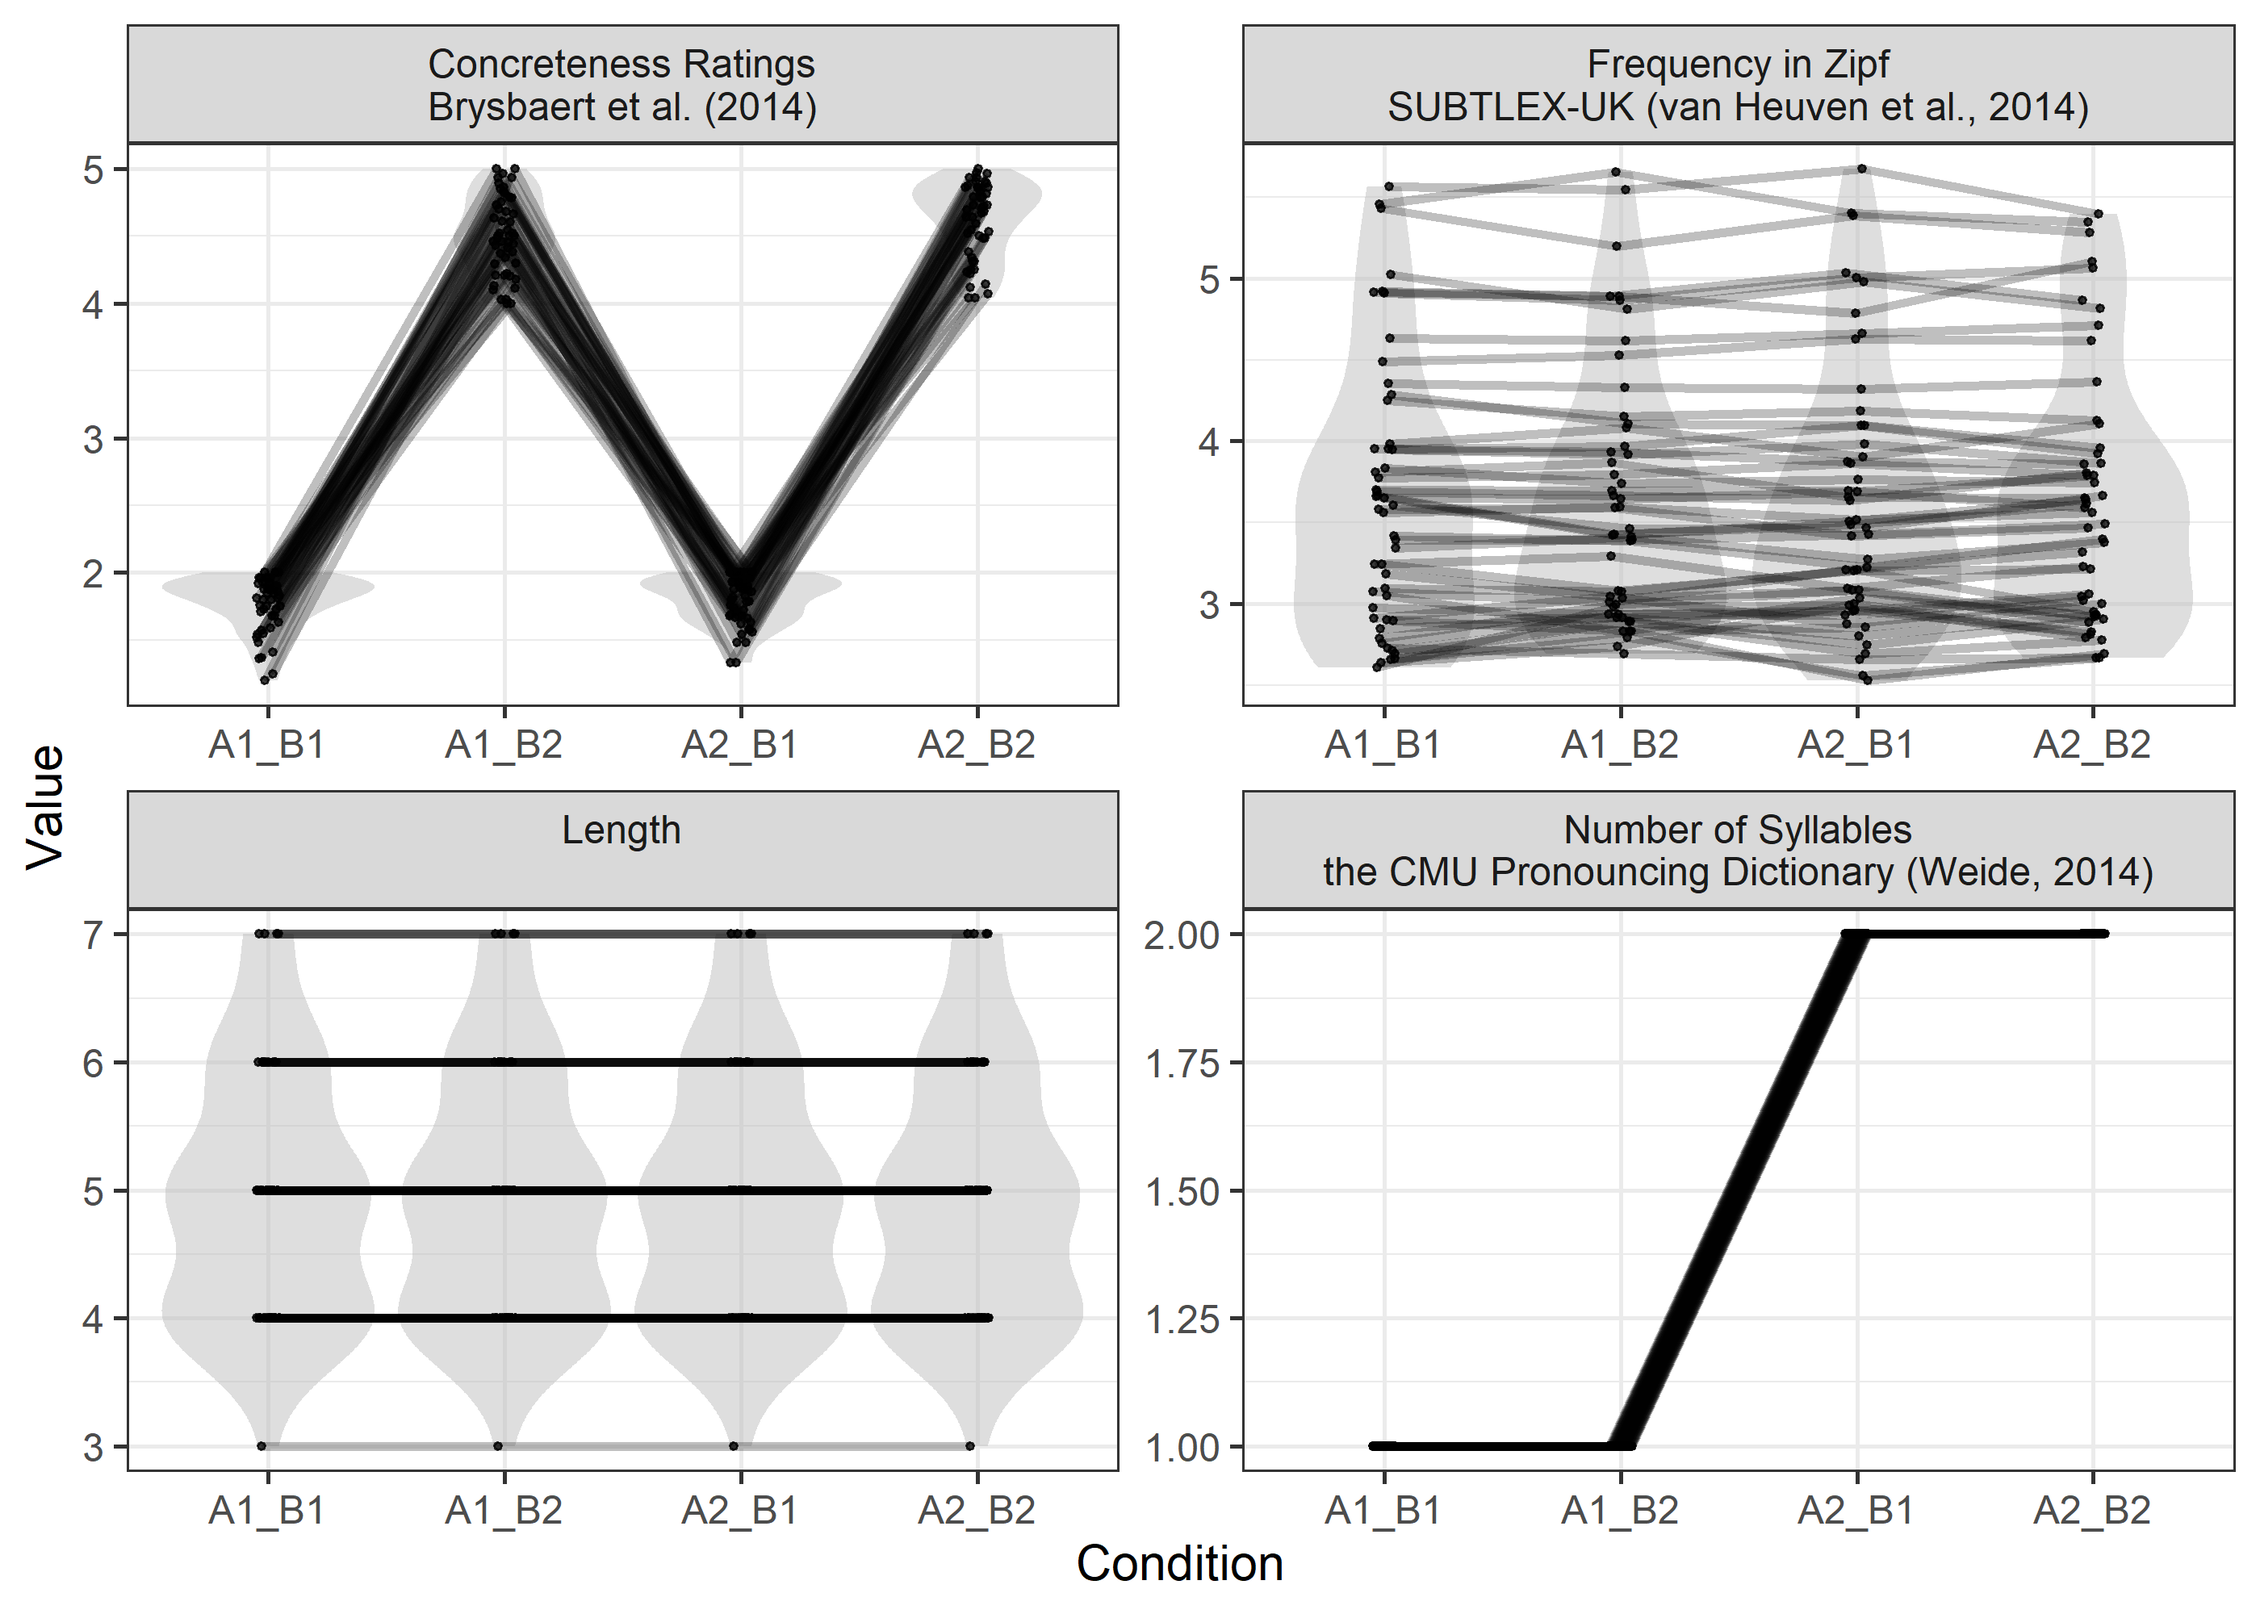
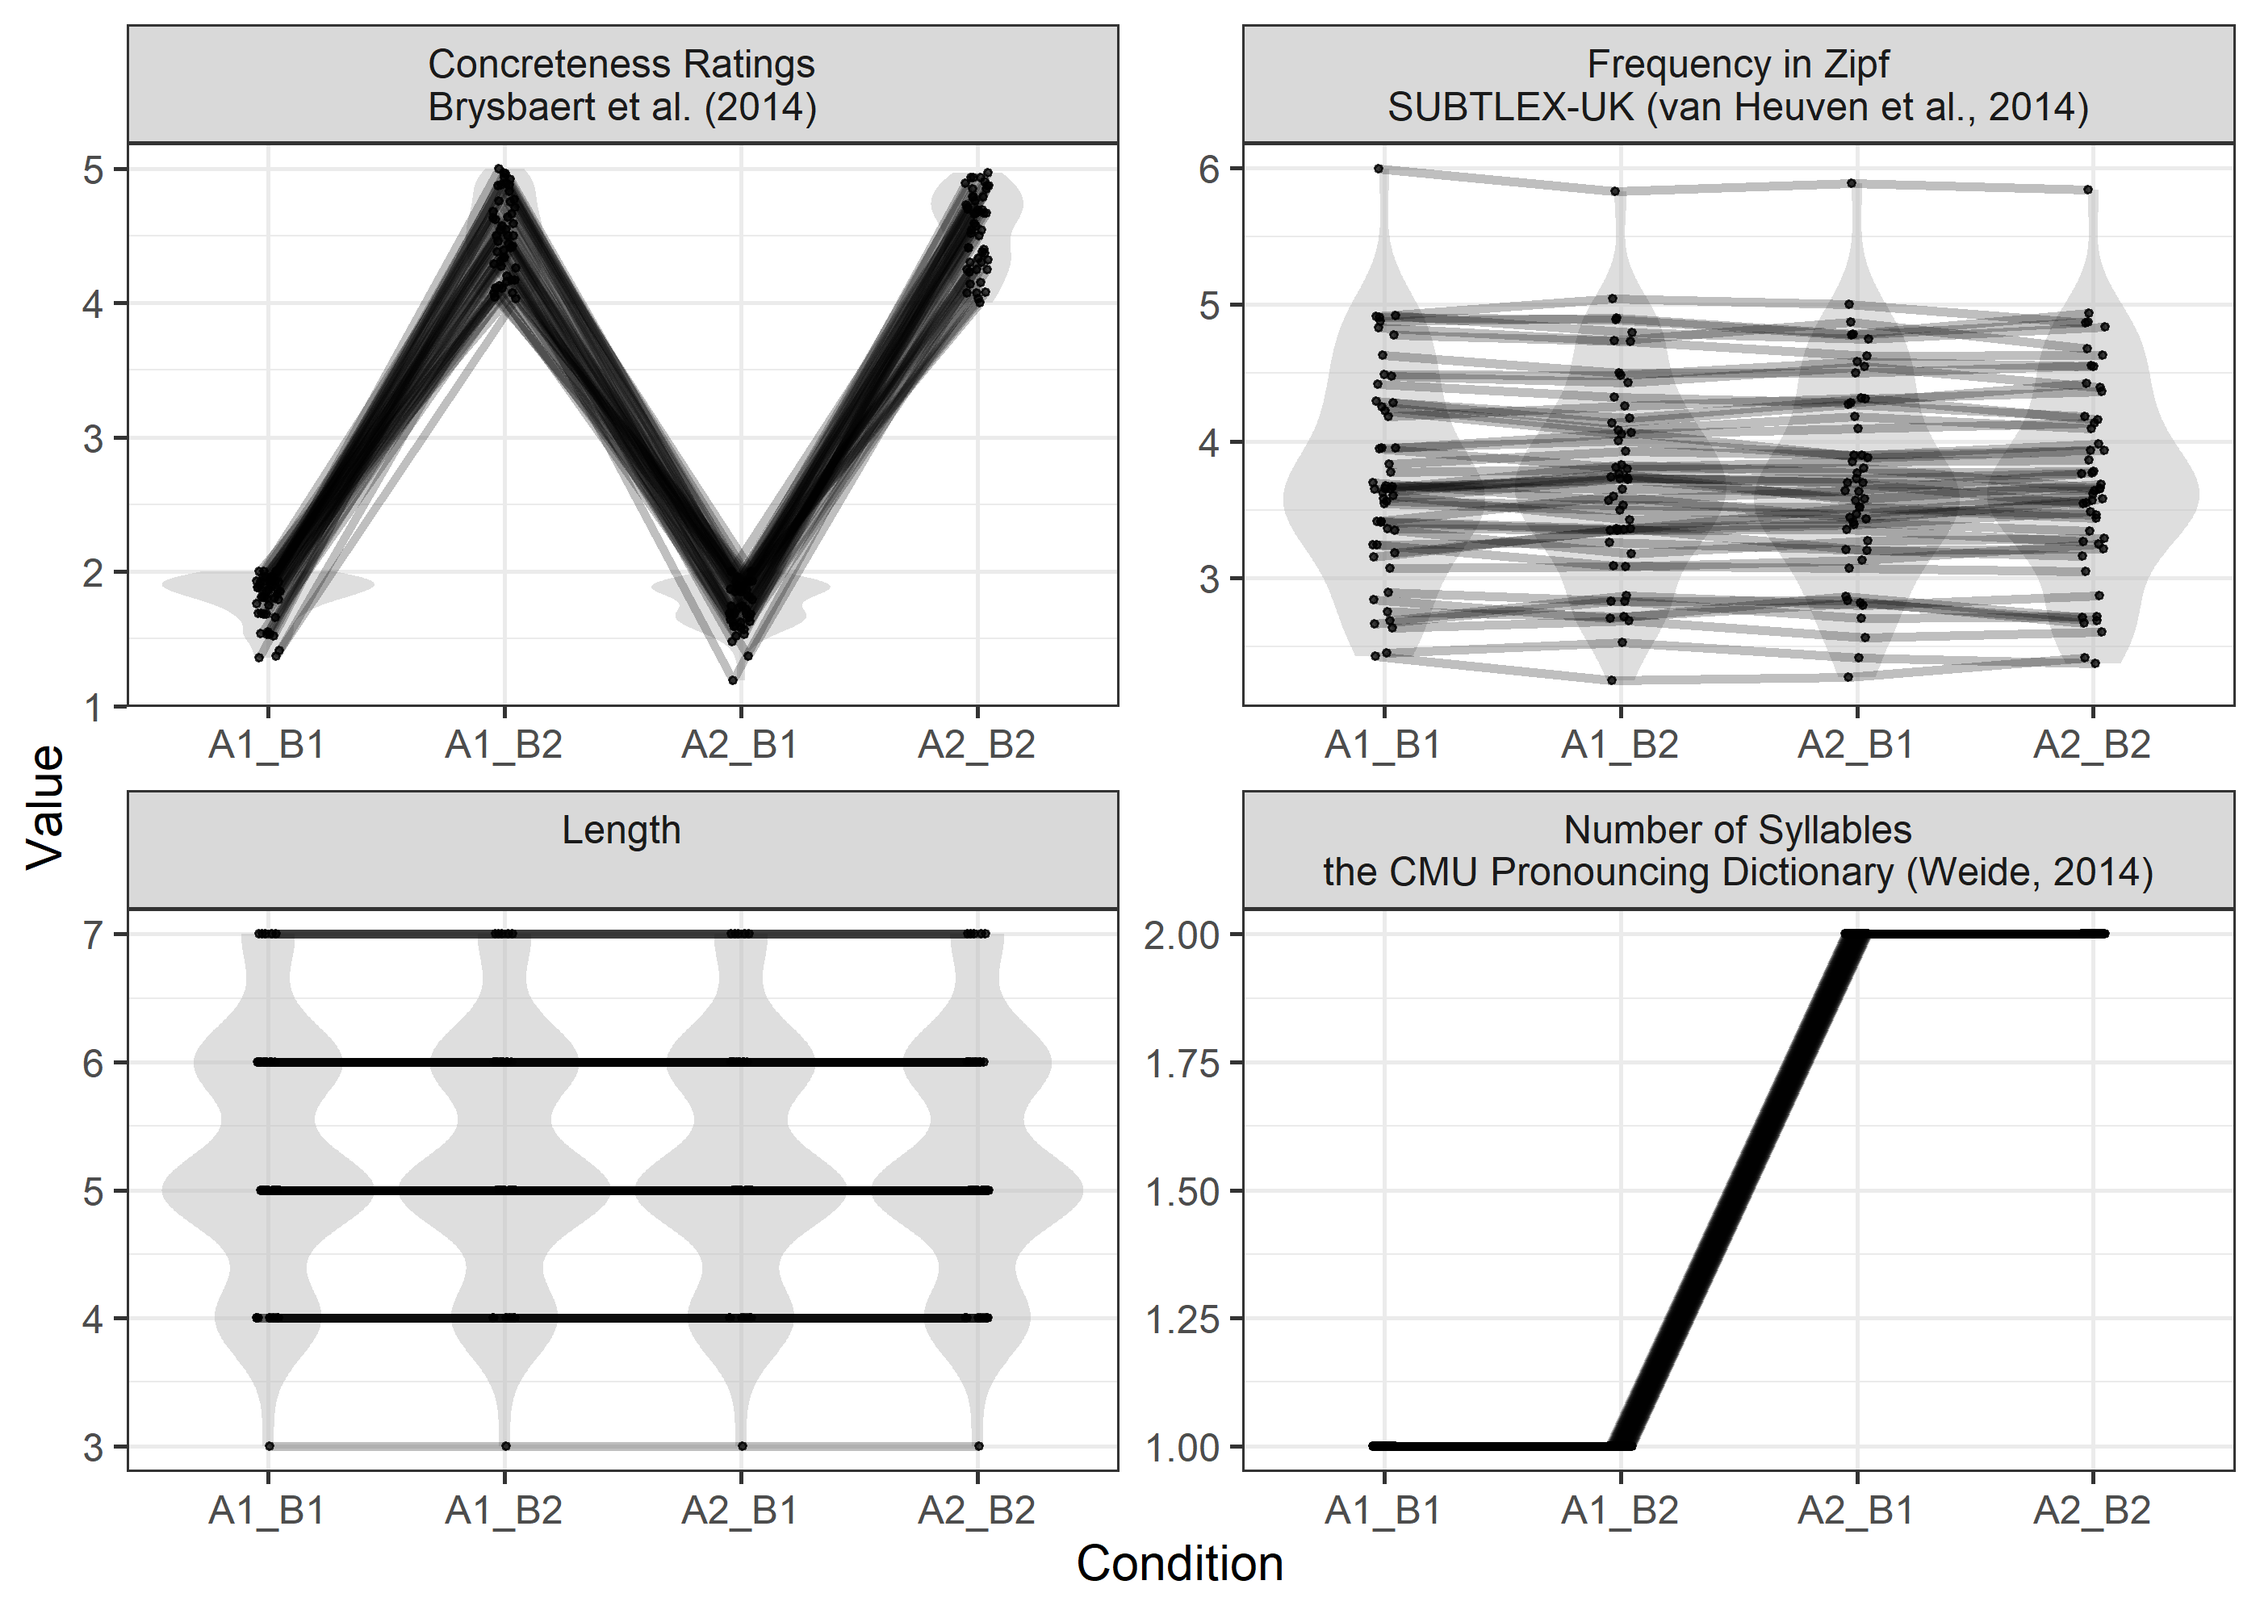
update version

diff --git a/README.md b/README.md
@@ -8,22 +8,30 @@
 [![Lifecycle:
 stable](https://img.shields.io/badge/lifecycle-stable-brightgreen.svg)](https://www.tidyverse.org/lifecycle/#stable)
 [![Version:
-0.4.0](https://img.shields.io/badge/version-0.4.0-blue.svg)](https://github.com/JackEdTaylor/LexOPS/releases)
+0.5.0](https://img.shields.io/badge/version-0.5.0-blue.svg)](https://github.com/JackEdTaylor/LexOPS/releases)
 [![DOI:
 10.3758/s13428-020-01389-1](https://zenodo.org/badge/DOI/10.3758/s13428-020-01389-1.svg)](https://doi.org/10.3758/s13428-020-01389-1)
 <!-- badges: end -->
 
 LexOPS is an R package for generating matched stimuli for factorial
 design experiments. You can use the functions on any dataframe, but
-there is an inbuilt database of example features for English words for
-psycholinguistics studies in English (`LexOPS::lexops`).
+there is an associated database of example features for English words
+for psycholinguistics studies in English (`LexOPS::lexops`).
 
 ## Installation
 
 LexOPS can be installed as an R package with:
 
 ``` r
-devtools::install_github("JackEdTaylor/LexOPS@*release")
+pak::pkg_install("JackEdTaylor/LexOPS@*release")
+```
+
+If you want to use the lexops dataset of English words, you will also
+need the [`lexopsdata`
+package](https://github.com/JackEdTaylor/lexopsdata):
+
+``` r
+pak::pkg_install("JackEdTaylor/lexopsdata@*release")
 ```
 
 ## How to Use
@@ -37,16 +45,17 @@ devtools::install_github("JackEdTaylor/LexOPS@*release")
 ## TL;DR
 
 LexOPS makes it easy to generate matched stimuli in a reproducible way.
-The functions work on any dataframe, but there is an inbuilt dataset,
+The functions work on any dataframe, but there is an associated dataset,
 `LexOPS::lexops`, containing psycholinguistic variables for English
 words.
 
 ### The “Generate Pipeline”
 
-The following example pipeline generates 50 words per condition (200 in
-total), for a study with a 2 x 2, syllables (1, 2) by concreteness (low,
-high) design. Words are matched by length exactly, and by word frequency
-within a tolerance of ±0.2 Zipf.
+The following example pipeline takes variables from the [lexops
+dataset](https://github.com/JackEdTaylor/lexopsdata). It generates 50
+words per condition (200 in total), for a study with a 2 x 2, syllables
+(1, 2) by concreteness (low, high) design. Words are matched by length
+exactly, and by word frequency within a tolerance of ±0.2 Zipf.
 
 ``` r
 library(LexOPS)
@@ -54,17 +63,17 @@ library(LexOPS)
 stim <- lexops |>
   split_by(Syllables.CMU, 1:1 ~ 2:2) |>
   split_by(CNC.Brysbaert, 1:2 ~ 4:5) |>
-  control_for(Zipf.SUBTLEX_UK, -0.2:0.2) |>
   control_for(Length) |>
-  generate(n = 50, match_null = "balanced")
+  control_for(Zipf.SUBTLEX_UK, -0.2:0.2) |>
+  generate(n = 50, match_null = "inclusive")
 ```
 
-    #> Generated 50/50 (100%). 157 total iterations, 0.32 success rate.
+    #> Generated 50/50 (100%). 245 total iterations, 0.20 success rate.
 
 A preview of what was generated:
 
 ``` r
-# create a table of the first 5 rows of the output
+# show the first 5 rows of the output
 stim |>
   head(5) |>
   knitr::kable()
@@ -72,11 +81,11 @@ stim |>
 
 | item_nr | A1_B1  | A1_B2  | A2_B1  | A2_B2  | match_null |
 |--------:|:-------|:-------|:-------|:-------|:-----------|
-|       1 | gist   | yank   | iffy   | tofu   | A1_B2      |
-|       2 | oomph  | speck  | hyper  | rabbi  | A2_B1      |
-|       3 | worst  | voice  | lucky  | cover  | A1_B1      |
-|       4 | suave  | stoop  | avail  | lilac  | A2_B2      |
-|       5 | shrewd | starch | bygone | condom | A2_B1      |
+|       1 | wits   | dent   | envy   | tuna   | NA         |
+|       2 | heed   | curb   | duly   | lego   | NA         |
+|       3 | whence | scythe | ardent | tomboy | NA         |
+|       4 | whim   | quad   | edgy   | neon   | NA         |
+|       5 | doomed | stance | beware | golfer | NA         |
 
 ### Review Generated Stimuli
 
@@ -87,7 +96,7 @@ stimuli.
 plot_design(stim)
 ```
 
-<img src="man/figures/README-fig1-1.png" width="100%" />
+<img src="man/figures/README-fig1-1.png" alt="" width="100%" />
 
 ### Convert to Long Format
 
@@ -101,28 +110,28 @@ long_format(stim) |>
   knitr::kable()
 ```
 
-| item_nr | condition | match_null | string | Zipf.SUBTLEX_UK | Length | Syllables.CMU | CNC.Brysbaert |
-|---:|:---|:---|:---|---:|---:|---:|---:|
-| 1 | A1_B1 | A1_B2 | gist | 2.974489 | 4 | 1 | 1.81 |
-| 1 | A1_B2 | A1_B2 | yank | 2.933782 | 4 | 1 | 4.10 |
-| 1 | A2_B1 | A1_B2 | iffy | 2.928732 | 4 | 2 | 1.68 |
-| 1 | A2_B2 | A1_B2 | tofu | 3.045984 | 4 | 2 | 4.86 |
-| 2 | A1_B1 | A2_B1 | oomph | 3.074134 | 5 | 1 | 1.52 |
-| 2 | A1_B2 | A2_B1 | speck | 3.011706 | 5 | 1 | 4.46 |
-| 2 | A2_B1 | A2_B1 | hyper | 3.208953 | 5 | 2 | 2.00 |
-| 2 | A2_B2 | A2_B1 | rabbi | 3.315872 | 5 | 2 | 4.64 |
-| 3 | A1_B1 | A1_B1 | worst | 4.915294 | 5 | 1 | 1.54 |
-| 3 | A1_B2 | A1_B1 | voice | 4.887075 | 5 | 1 | 4.13 |
-| 3 | A2_B1 | A1_B1 | lucky | 5.030973 | 5 | 2 | 1.76 |
-| 3 | A2_B2 | A1_B1 | cover | 4.863260 | 5 | 2 | 4.23 |
-| 4 | A1_B1 | A2_B2 | suave | 2.910580 | 5 | 1 | 1.48 |
-| 4 | A1_B2 | A2_B2 | stoop | 3.045984 | 5 | 1 | 4.63 |
-| 4 | A2_B1 | A2_B2 | avail | 2.877579 | 5 | 2 | 1.33 |
-| 4 | A2_B2 | A2_B2 | lilac | 3.017955 | 5 | 2 | 4.69 |
-| 5 | A1_B1 | A2_B1 | shrewd | 3.244739 | 6 | 1 | 1.92 |
-| 5 | A1_B2 | A2_B1 | starch | 3.291232 | 6 | 1 | 4.29 |
-| 5 | A2_B1 | A2_B1 | bygone | 3.091935 | 6 | 2 | 1.69 |
-| 5 | A2_B2 | A2_B1 | condom | 3.225935 | 6 | 2 | 4.87 |
+|  | item_nr | condition | match_null | string | Zipf.SUBTLEX_UK | Length | Syllables.CMU | CNC.Brysbaert |
+|:---|---:|:---|:---|:---|---:|---:|---:|---:|
+| 1 | 1 | A1_B1 | NA | wits | 3.697902 | 4 | 1 | 1.76 |
+| 51 | 1 | A1_B2 | NA | dent | 3.569056 | 4 | 1 | 4.63 |
+| 101 | 1 | A2_B1 | NA | envy | 3.636750 | 4 | 2 | 1.69 |
+| 151 | 1 | A2_B2 | NA | tuna | 3.762807 | 4 | 2 | 4.89 |
+| 2 | 2 | A1_B1 | NA | heed | 3.244739 | 4 | 1 | 1.93 |
+| 52 | 2 | A1_B2 | NA | curb | 3.261583 | 4 | 1 | 4.68 |
+| 102 | 2 | A2_B1 | NA | duly | 3.207619 | 4 | 2 | 1.68 |
+| 152 | 2 | A2_B2 | NA | lego | 3.161119 | 4 | 2 | 4.73 |
+| 3 | 3 | A1_B1 | NA | whence | 2.844955 | 6 | 1 | 1.88 |
+| 53 | 3 | A1_B2 | NA | scythe | 2.704336 | 6 | 1 | 4.29 |
+| 103 | 3 | A2_B1 | NA | ardent | 2.863053 | 6 | 2 | 1.64 |
+| 153 | 3 | A2_B2 | NA | tomboy | 2.712769 | 6 | 2 | 4.25 |
+| 4 | 4 | A1_B1 | NA | whim | 3.155128 | 4 | 1 | 1.69 |
+| 54 | 4 | A1_B2 | NA | quad | 3.351834 | 4 | 1 | 4.07 |
+| 104 | 4 | A2_B1 | NA | edgy | 3.354701 | 4 | 2 | 1.87 |
+| 154 | 4 | A2_B2 | NA | neon | 3.269767 | 4 | 2 | 4.07 |
+| 5 | 5 | A1_B1 | NA | doomed | 3.650942 | 6 | 1 | 1.88 |
+| 55 | 5 | A1_B2 | NA | stance | 3.739098 | 6 | 1 | 4.04 |
+| 105 | 5 | A2_B1 | NA | beware | 3.699627 | 6 | 2 | 2.00 |
+| 155 | 5 | A2_B2 | NA | golfer | 3.543925 | 6 | 2 | 4.71 |
 
 ### Shiny App
 
@@ -141,7 +150,8 @@ LexOPS::run_shiny()
 
 ### Matching on Custom Dataframes
 
-As well as the built-in dataframe `LexOPS::lexops`, you can generate
+As well as using the [lexops
+dataset](https://github.com/JackEdTaylor/lexopsdata), you can generate
 matches from any dataframe object.
 
 Here is an example using `mtcars`. We pick five automatic and five
@@ -158,9 +168,9 @@ mtcars |>
   generate(5)
 ```
 
-    #>   item_nr                 A1             A2 match_null
-    #> 1       1           Merc 280 Ford Pantera L         A2
-    #> 2       2           Merc 230     Volvo 142E         A1
-    #> 3       3  Hornet Sportabout  Porsche 914-2         A1
-    #> 4       4 Cadillac Fleetwood      Mazda RX4         A1
-    #> 5       5   Dodge Challenger    Honda Civic         A2
+    #>   item_nr                A1            A2 match_null
+    #> 1       1    Hornet 4 Drive    Datsun 710         A2
+    #> 2       2       AMC Javelin   Honda Civic         A1
+    #> 3       3  Dodge Challenger    Volvo 142E         A2
+    #> 4       4     Toyota Corona     Fiat X1-9         A2
+    #> 5       5 Hornet Sportabout Porsche 914-2         A1
